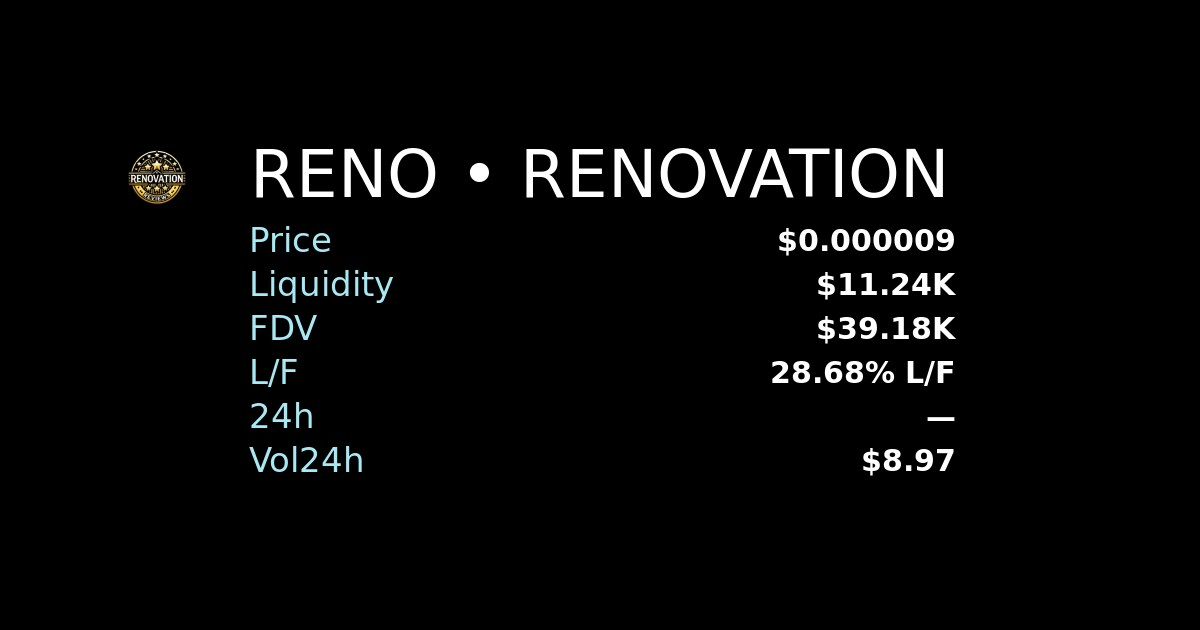
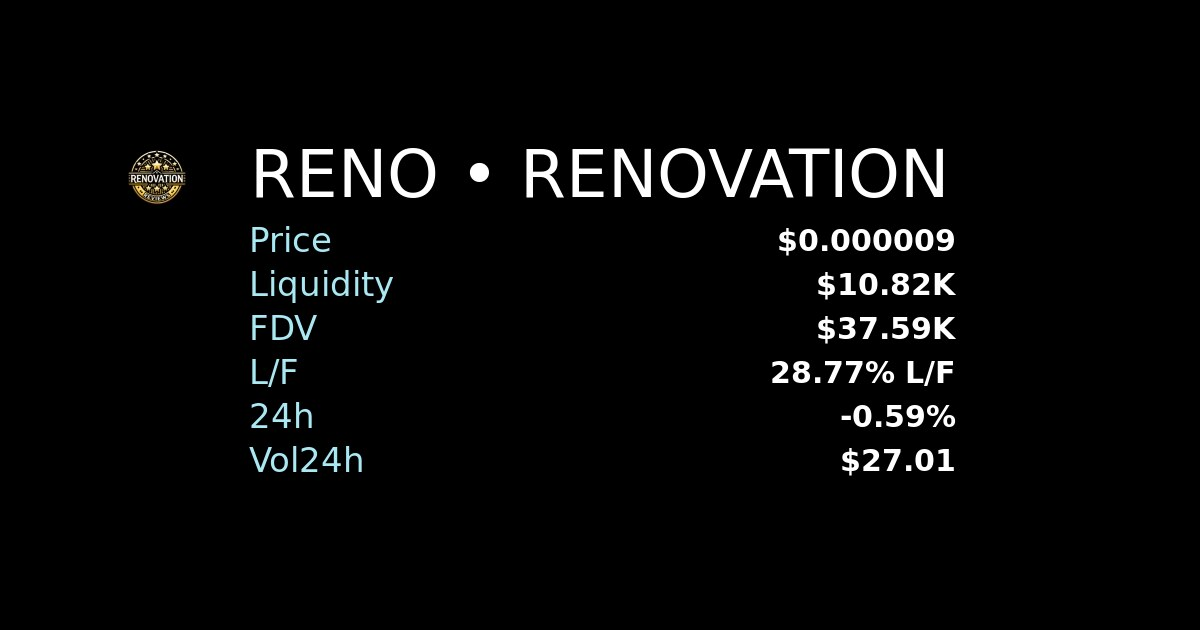
chore: update sitemap & token pages

diff --git a/token/BrEiwuaLCuG7nG9bMuDg9ihp6sisvD6DCqNjrudHxmzg/index.html b/token/BrEiwuaLCuG7nG9bMuDg9ihp6sisvD6DCqNjrudHxmzg/index.html
@@ -4,14 +4,14 @@
     <meta charset="utf-8" />
     <meta name="viewport" content="width=device-width,initial-scale=1" />
     <title>RENO on Solana</title>
-    <meta name="description" content="RENOVATION • Price: $0.000009 • Liquidity: $11.24K" />
+    <meta name="description" content="RENOVATION • Price: $0.000009 • Liquidity: $10.82K" />
     <meta name="author" content="builders-toronto" />
     <meta name="keywords" content="solana, memecoin, bonk, wif, dog, inu, pepe, cat, meme, ponk, samo, purry, purr, kitty, meow, woof, frog, snek, toad, bob, dino, monke, monkey, ape, corgi, floki, elon" />
 
     <!-- OG -->
     <meta property="og:type" content="website" />
     <meta property="og:title" content="RENO on Solana" />
-    <meta property="og:description" content="RENOVATION • Price: $0.000009 • Liquidity: $11.24K" />
+    <meta property="og:description" content="RENOVATION • Price: $0.000009 • Liquidity: $10.82K" />
     <meta property="og:url" content="https://fdv.lol/token/BrEiwuaLCuG7nG9bMuDg9ihp6sisvD6DCqNjrudHxmzg" />
     <meta property="og:image" content="https://fdv.lol/token/BrEiwuaLCuG7nG9bMuDg9ihp6sisvD6DCqNjrudHxmzg/og.jpg" />
     <meta property="og:image:width" content="1200" />
@@ -21,7 +21,7 @@
     <!-- Twitter -->
     <meta name="twitter:card" content="summary_large_image" />
     <meta name="twitter:title" content="RENO on Solana" />
-    <meta name="twitter:description" content="RENOVATION • Price: $0.000009 • Liquidity: $11.24K" />
+    <meta name="twitter:description" content="RENOVATION • Price: $0.000009 • Liquidity: $10.82K" />
     <meta name="twitter:image" content="https://fdv.lol/token/BrEiwuaLCuG7nG9bMuDg9ihp6sisvD6DCqNjrudHxmzg/og.jpg" />
 
     <link rel="icon" type="image/png" href="/src/assets/images/icons/fdv.lol.ico" />
@@ -35,7 +35,7 @@
       "@type": "WebSite",
       "name": "RENO on Solana",
       "url": "https://fdv.lol/token/BrEiwuaLCuG7nG9bMuDg9ihp6sisvD6DCqNjrudHxmzg",
-      "description": "RENOVATION • Price: $0.000009 • Liquidity: $11.24K",
+      "description": "RENOVATION • Price: $0.000009 • Liquidity: $10.82K",
       "keywords": [
         "solana",
         "memecoin",
